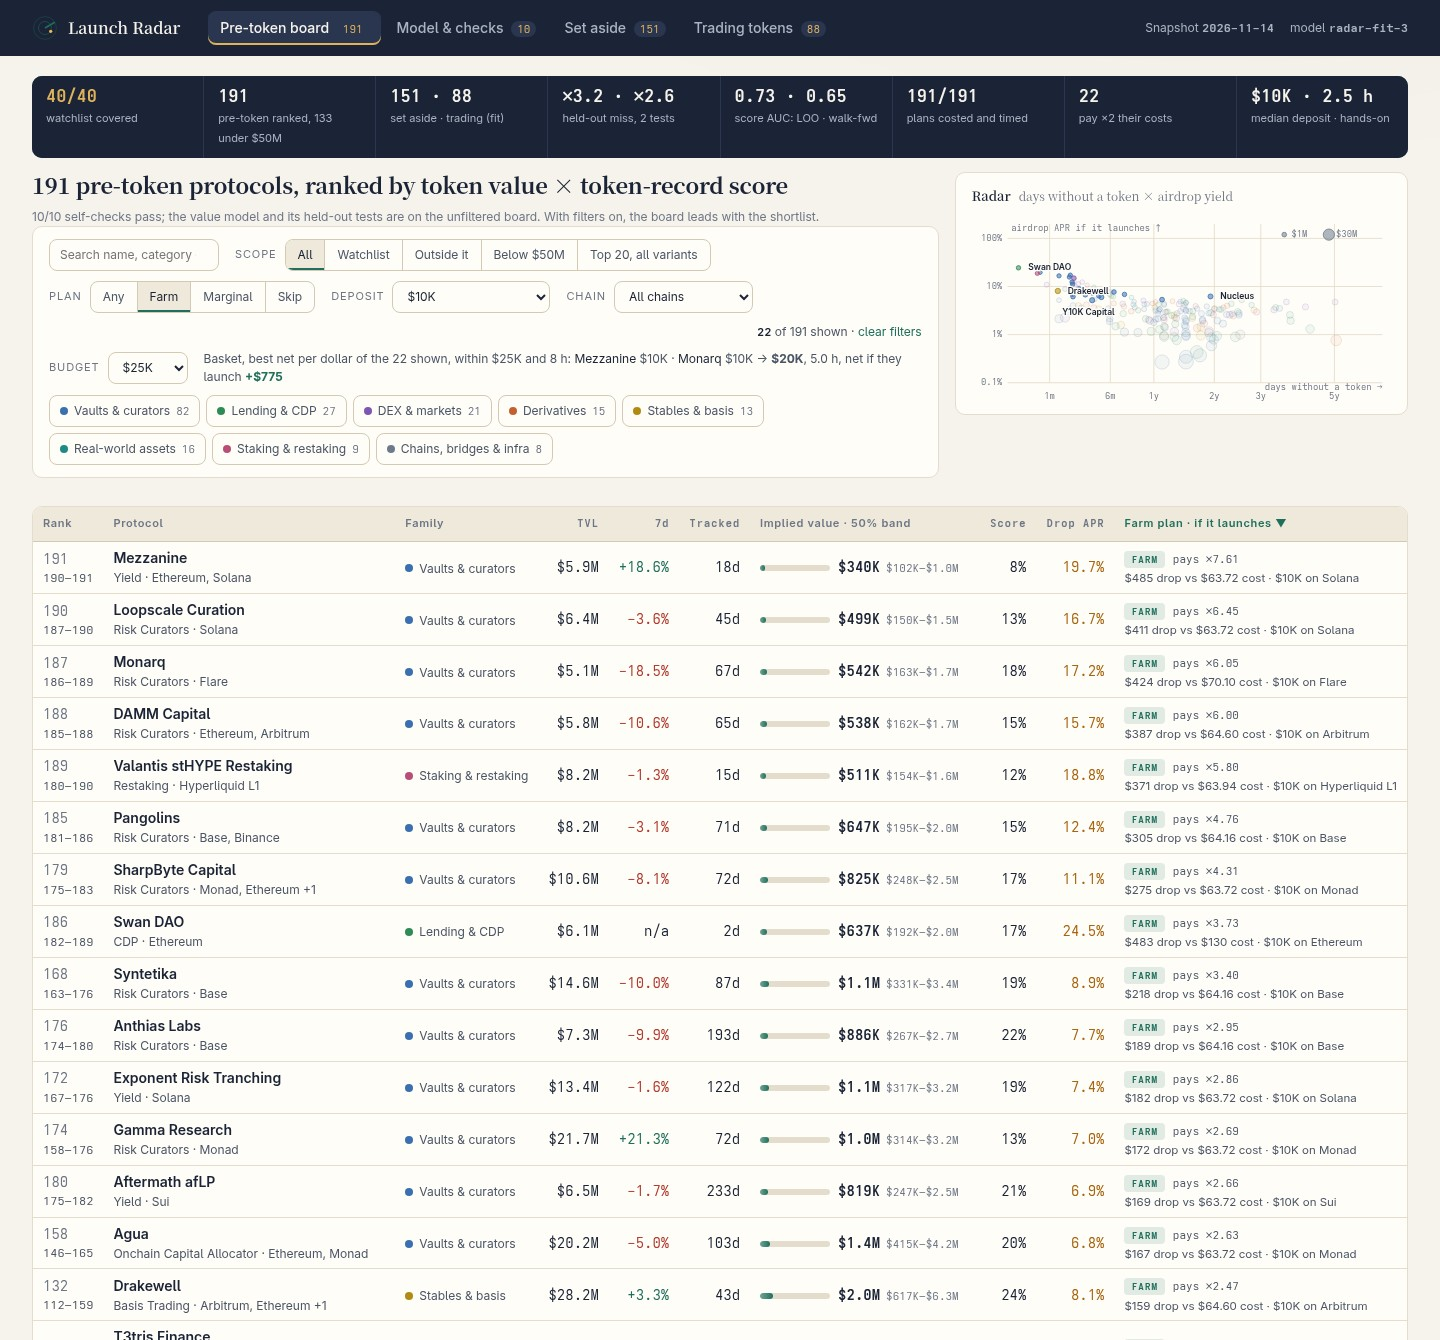
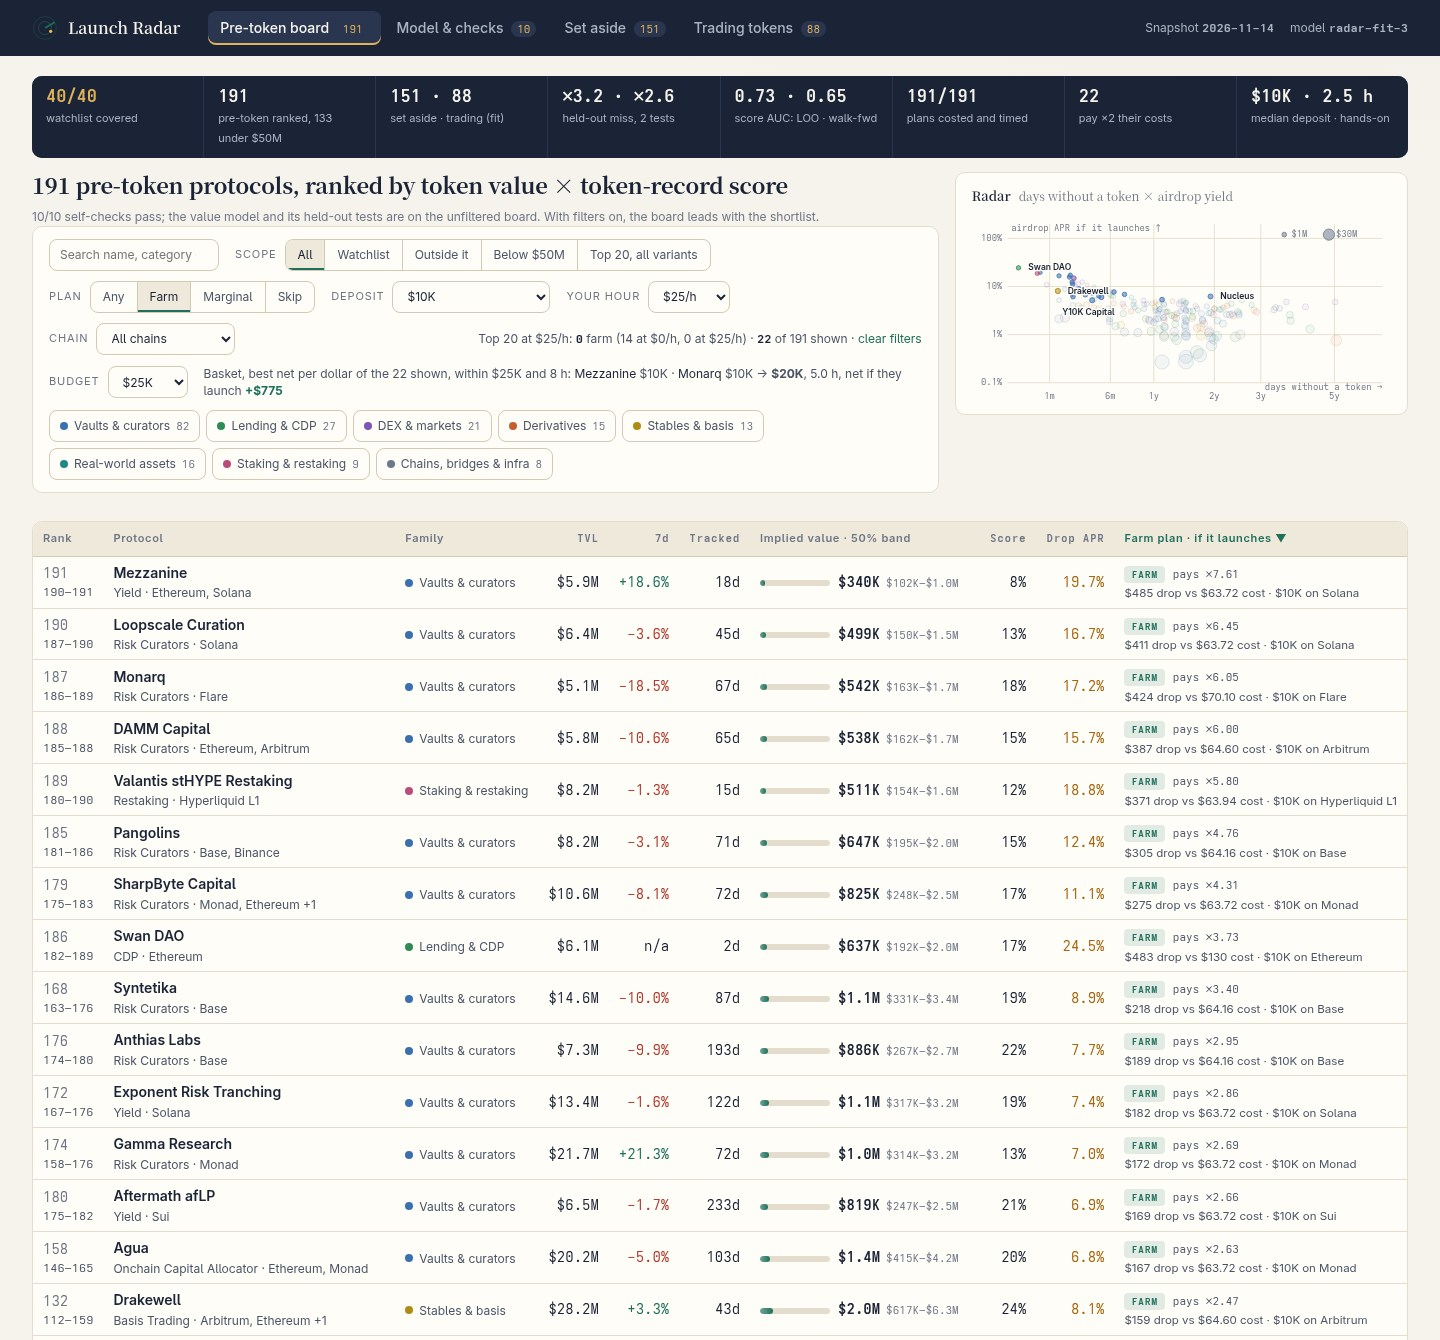
Reader-set value of an hour ($0-$100) re-plans every row; the board shows how many top-20 verdicts are farm at that value vs $0 and $25

Changed region(s): [[0.0312, 0.2142, 0.9688, 1.0]]

diff --git a/dashboard/app.js b/dashboard/app.js
@@ -29,7 +29,7 @@
   const verdictTag = (v) => `<span class="verdict v-${v}">${v}</span>`;
   const maxImplied = rows[0].v.implied;
 
-  const DEF = { view: 'board', q: '', fam: '', chain: '', scope: 'all', verdict: '', sort: 'rank', dir: 'asc', p: '', dep: '', bud: '25000' };
+  const DEF = { view: 'board', q: '', fam: '', chain: '', scope: 'all', verdict: '', sort: 'rank', dir: 'asc', p: '', dep: '', bud: '25000', hr: '25' };
   const HOURS = 8;
   function readHash() {
     const st = Object.assign({}, DEF);
@@ -39,7 +39,7 @@
       if (i > 0 && own(DEF, k)) try { st[k] = decodeURIComponent(kv.slice(i + 1)); } catch (e) { /* keep the default */ }
     });
     // Unknown values fall back to the defaults, so a hand-typed link never breaks the page.
-    const ok = { view: 'board model aside trading', scope: 'all watch early outside stable', verdict: ' farm marginal skip', dir: 'asc desc', dep: ' 1000 5000 10000 25000 100000 250000', bud: '10000 25000 50000 100000 250000 1000000' };
+    const ok = { view: 'board model aside trading', scope: 'all watch early outside stable', verdict: ' farm marginal skip', dir: 'asc desc', dep: ' 1000 5000 10000 25000 100000 250000', hr: '0 10 25 50 100', bud: '10000 25000 50000 100000 250000 1000000' };
     Object.keys(ok).forEach((k) => { if (!ok[k].split(' ').includes(st[k])) st[k] = DEF[k]; });
     if (!own(KEYS, st.sort)) st.sort = 'rank';
     return st;
@@ -191,8 +191,9 @@
       <div class="field"><span>Scope</span>${seg('scope', [['all', 'All'], ['watch', 'Watchlist'], ['outside', 'Outside it'], ['early', 'Below $50M'], ['stable', 'Top 20, all variants']])}</div>
       <div class="field"><span>Plan</span>${seg('verdict', [['', 'Any'], ['farm', 'Farm'], ['marginal', 'Marginal'], ['skip', 'Skip']])}</div>
       <label class="field"><span>Deposit</span><select id="dep">${['', 1000, 5000, 10000, 25000, 100000, 250000].map((d) => `<option value="${d}"${String(d) === st.dep ? ' selected' : ''}>${d ? usd(d) : 'Auto: least that pays'}</option>`).join('')}</select></label>
+      <label class="field"><span>Your hour</span><select id="hr">${[0, 10, 25, 50, 100].map((h) => `<option value="${h}"${String(h) === st.hr ? ' selected' : ''}>$${h}/h</option>`).join('')}</select></label>
       <label class="field"><span>Chain</span><select id="chain"><option value="">All chains</option>${Object.keys(chains).sort((a, b) => chains[b] - chains[a] || (a < b ? -1 : 1)).map((c) => `<option${c === st.chain ? ' selected' : ''}>${esc(c)}</option>`).join('')}</select></label>
-      <div class="count"><b>${shown.length}</b> of ${rows.length} shown${active ? ` · <a href="${link({ q: '', fam: '', chain: '', scope: 'all', verdict: '', dep: '' })}">clear filters</a>` : ''}</div>
+      <div class="count">Top 20 at $${st.hr}/h: <b>${farmAt(+st.hr, st.dep)}</b> farm (${farmAt(0, st.dep)} at $0/h, ${farmAt(25, st.dep)} at $25/h) · <b>${shown.length}</b> of ${rows.length} shown${active ? ` · <a href="${link({ q: '', fam: '', chain: '', scope: 'all', verdict: '', dep: '' })}">clear filters</a>` : ''}</div>
     </section>
     <section class="filters basket"><label class="field"><span>Budget</span><select id="bud">${[10000, 25000, 50000, 100000, 250000, 1000000].map((d) => `<option value="${d}"${String(d) === st.bud ? ' selected' : ''}>${usd(d)}</option>`).join('')}</select></label>
       <span>Basket, best net per dollar of the ${shown.length} shown, within ${usd(+st.bud)} and ${HOURS} h: ${pick.map((r) => `<a href="${link({ p: r.p.slug })}">${esc(r.p.name)}</a> ${usd(r.plan.stake)}`).join(' · ') || 'none pays'} → <b>${usd(cap)}</b>, ${hrs.toFixed(1)} h, net if they launch <b class="up">+${usd(pick.reduce((s, r) => s + r.plan.net, 0))}</b></span></section>
@@ -283,7 +284,7 @@
         <ol class="steps">${pl.steps.map((s) => `<li><p><em>${esc(s.when)}</em>${esc(s.act)}.</p><span class="cost">${usd(s.usd)}</span><span class="time">${R.mins(s.min)}</span></li>`).join('')}</ol>
         <div class="math">
           <p><b>Drop APR ${(v.apr * 100).toFixed(2)}% if it launches</b> = ${usd(v.fitted)} × ${M.drop_share * 100}% to depositors ÷ (${usd(v.tvl_next)} TVL × (${Math.min(v.age_used, M.season_days)} + ${M.farm_days}) season days) × 365.</p>
-          <p>${usd(pl.eligible)} earning for ${pl.days} days: <b>${usd(pl.drop)}</b> vs <b>${usd(pl.all_in)}</b> all-in (${usd(pl.cost)} fees + ${R.mins(pl.minutes)} at $${M.hour_usd}/h), net <b class="${pl.net >= 0 ? 'up' : 'down'}">${pl.net >= 0 ? '+' : '−'}${usd(Math.abs(pl.net))}</b>. Capital: ${st.dep ? 'your deposit' : pl.verdict === 'farm' ? `least that pays ×${M.target_cover} ($500–$25K)` : `capped at $25K; no deposit up to it pays ×${M.target_cover}`}.</p>
+          <p>${usd(pl.eligible)} earning for ${pl.days} days: <b>${usd(pl.drop)}</b> vs <b>${usd(pl.all_in)}</b> all-in (${usd(pl.cost)} fees + ${R.mins(pl.minutes)} at $${pl.hour}/h), net <b class="${pl.net >= 0 ? 'up' : 'down'}">${pl.net >= 0 ? '+' : '−'}${usd(Math.abs(pl.net))}</b>. Capital: ${st.dep ? 'your deposit' : pl.verdict === 'farm' ? `least that pays ×${M.target_cover} ($500–$25K)` : `capped at $25K; no deposit up to it pays ×${M.target_cover}`}.</p>
         </div>
       </section>
     </div>`;
@@ -308,13 +309,15 @@
       <div class="tablewrap">${tbl('board', ['Protocol', '#TVL', '#Market cap', '#÷ TVL', '#Fit without it', '#÷ market'], radar.live.map((l) => [nm(l.p.name, (l.p.symbol || '') + ' · ' + (l.p.category || '')), usd(l.tvl) + (l.members > 1 ? ` <small>${l.members} parts</small>` : ''), usd(l.actual), mult(l.actual / l.tvl), usd(l.loo), `<span class="${l.loo / l.actual > 2 || l.loo / l.actual < 0.5 ? 'down' : 'up'}">${mult(l.loo / l.actual)}</span>`]))}</div></div>`;
   }
 
-  let planDep = '';
+  let planDep = '|25';
+  // How many top-20 verdicts are farm at a given hourly value (and deposit), to compare with the default.
+  const top20 = rows.slice(0, 20), farmAt = (h, dep) => top20.filter((r) => R.farmPlan(r.p, r.v, +dep, h).verdict === 'farm').length;
   function render() {
     const st = readHash();
     head(st);
     app.className = st.p ? 'detail' : st.view;
     // A deposit chosen by the reader re-plans every row at that amount (farmPlan's dep).
-    if (st.dep !== planDep) { planDep = st.dep; rows.forEach((r) => { r.plan = R.farmPlan(r.p, r.v, +st.dep); }); }
+    if (st.dep + '|' + st.hr !== planDep) { planDep = st.dep + '|' + st.hr; rows.forEach((r) => { r.plan = R.farmPlan(r.p, r.v, +st.dep, +st.hr); }); }
     app.innerHTML = st.p ? detail(st) : st.view === 'model' ? model() : st.view === 'aside' ? aside() : st.view === 'trading' ? trading() : board(st);
     document.getElementById('foot').innerHTML = `Source: ${esc(S.source)}. Floor $${(S.floor_usd / 1e6).toFixed(0)}M. Implied value = the radar's own value if launched × its token-record score; never make.fun's claim. A protocol may hold a token DefiLlama does not record.`;
     if (st.p) window.scrollTo(0, 0);
@@ -328,7 +331,7 @@
       typing = setTimeout(() => { typing = null; history.replaceState(null, '', link({ q: val })); render(); const q = document.getElementById('q'); if (q) { q.focus(); q.setSelectionRange(val.length, val.length); } }, 160);
     }
   });
-  app.addEventListener('change', (e) => { if (['chain', 'dep', 'bud'].includes(e.target.id)) go({ [e.target.id]: e.target.value }); });
+  app.addEventListener('change', (e) => { if (['chain', 'dep', 'bud', 'hr'].includes(e.target.id)) go({ [e.target.id]: e.target.value }); });
   ['click', 'keydown'].forEach((ev) => app.addEventListener(ev, (e) => {
     const tr = e.target.closest('tr[data-slug]');
     if (tr && !e.target.closest('a') && (ev === 'click' || e.key === 'Enter')) go({ p: tr.dataset.slug });

diff --git a/dashboard/model.js b/dashboard/model.js
@@ -281,7 +281,9 @@
 
   /* A farm plan from the row's own figures: steps with a dollar cost and a time each, on the cheapest of
    * its three main chains. */
-  function farmPlan(p, v, dep) {
+  // hour: the reader's value of an hour of hands-on time (default M.hour_usd); dep: a fixed deposit.
+  function farmPlan(p, v, dep, hour) {
+    var hr = hour == null ? M.hour_usd : hour;
     var main = p.chains.slice(0, 3), chain = main[0] || 'its main chain';
     main.forEach(function (c) { if (gas(c) < gas(chain)) chain = c; });
     var kind = p.category === 'Prediction Market' ? 'predict' : v.family;
@@ -301,7 +303,7 @@
         { act: 'At launch claim only through the protocol\'s own app; the model prices it near ' + usd(v.fitted) + ' if launched, so sell the claim if its market cap opens above ' + usd(v.cap_high) + ' (top of its 50% band; the model fits market cap, not FDV)', usd: 2 * tx, min: 15, when: 'At launch' }
       ];
     }
-    function total(st) { var c = 0, t = 5; st.forEach(function (s) { c += s.usd; t += s.min; }); return { cost: c, min: t, all: c + t / 60 * M.hour_usd }; }
+    function total(st) { var c = 0, t = 5; st.forEach(function (s) { c += s.usd; t += s.min; }); return { cost: c, min: t, all: c + t / 60 * hr }; }
     // Only capital in the protocol earns: the deposit, plus the side deposit for vaults (a second vault).
     function eligible(stake) { return kind === 'vault' ? stake + Math.round(stake / 4) : stake; }
     // The smallest deposit ($500 steps of capital, up to $25,000) whose drop covers costs target_cover times.
@@ -332,7 +334,7 @@
         { when: 'Day 0', usd: 0, min: 5, act: 'Write down the trigger that flips this plan: an announced allocation of at least ' + (needShare * 100).toFixed(0) + '% to depositors, ' + (payCap ? 'capital of about ' + usd(payCap) + ' to commit, ' : '') + 'or TVL falling below ' + usd(p.tvl_usd * 0.5) + ' with no change in odds (a smaller pool to share)' },
         { when: 'Day 30', usd: 0, min: 10, act: 'Look again on a new snapshot; if the plan now pays ×' + M.target_cover + ', follow the full plan (' + usd(capital) + ' capital, about ' + usd(t.cost) + ' in fees, ' + mins(Math.round(t.min)) + ' hands-on)' }];
     }
-    return { chain: chain, gas: tx, stake: capital, eligible: eligible(stake), asset: asset, steps: st, cost: t.cost, minutes: t.min, time_usd: t.min / 60 * M.hour_usd, all_in: t.all,
+    return { hour: hr, chain: chain, gas: tx, stake: capital, eligible: eligible(stake), asset: asset, steps: st, cost: t.cost, minutes: t.min, time_usd: t.min / 60 * hr, all_in: t.all,
       days: M.farm_days, drop: drop, net: drop - t.all, need_share: needShare, pay_cap: payCap, verdict: verdict };
   }
   function stepText(s) {
